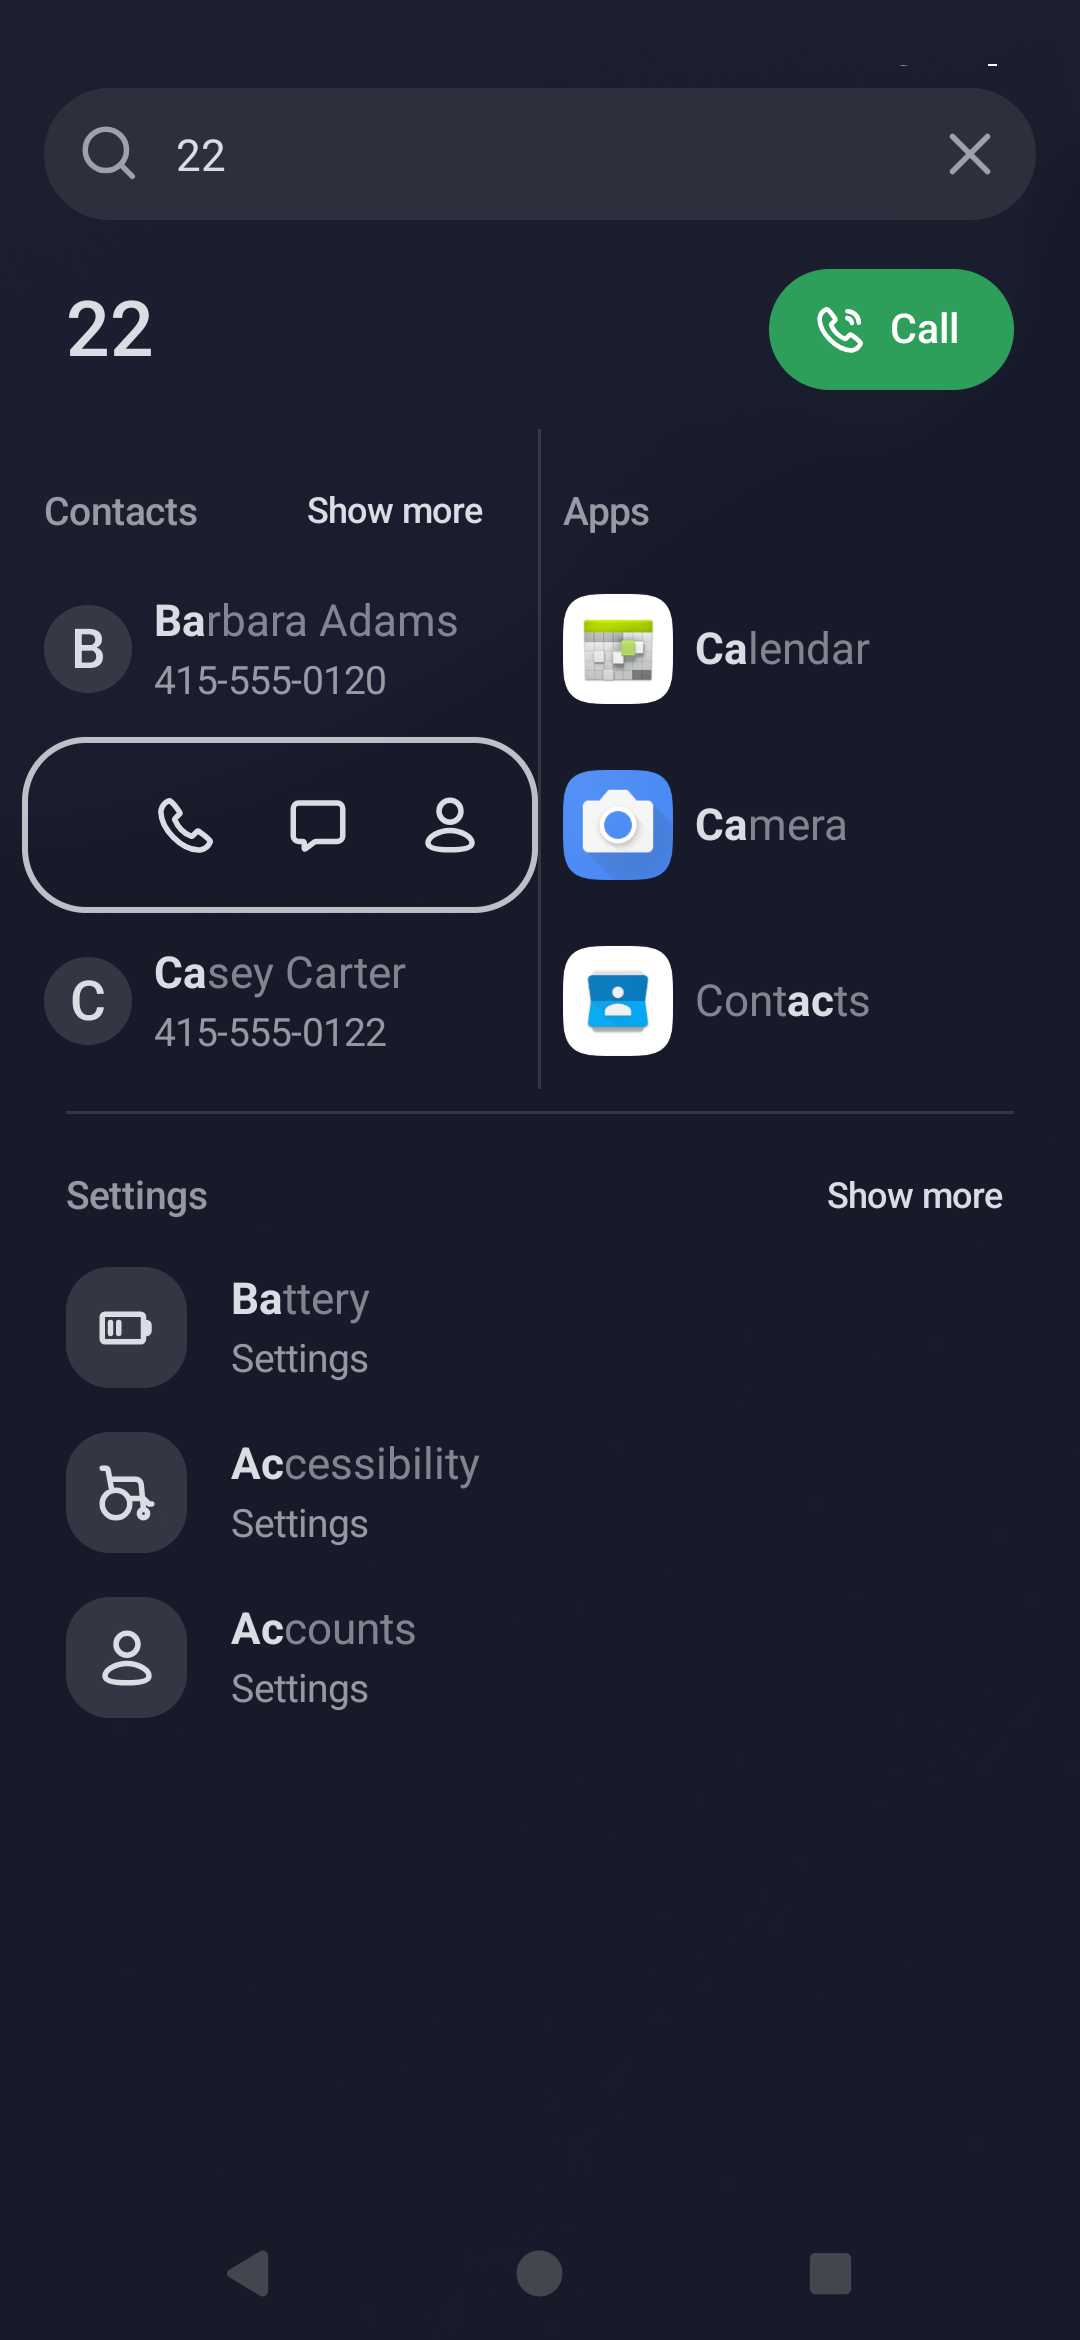
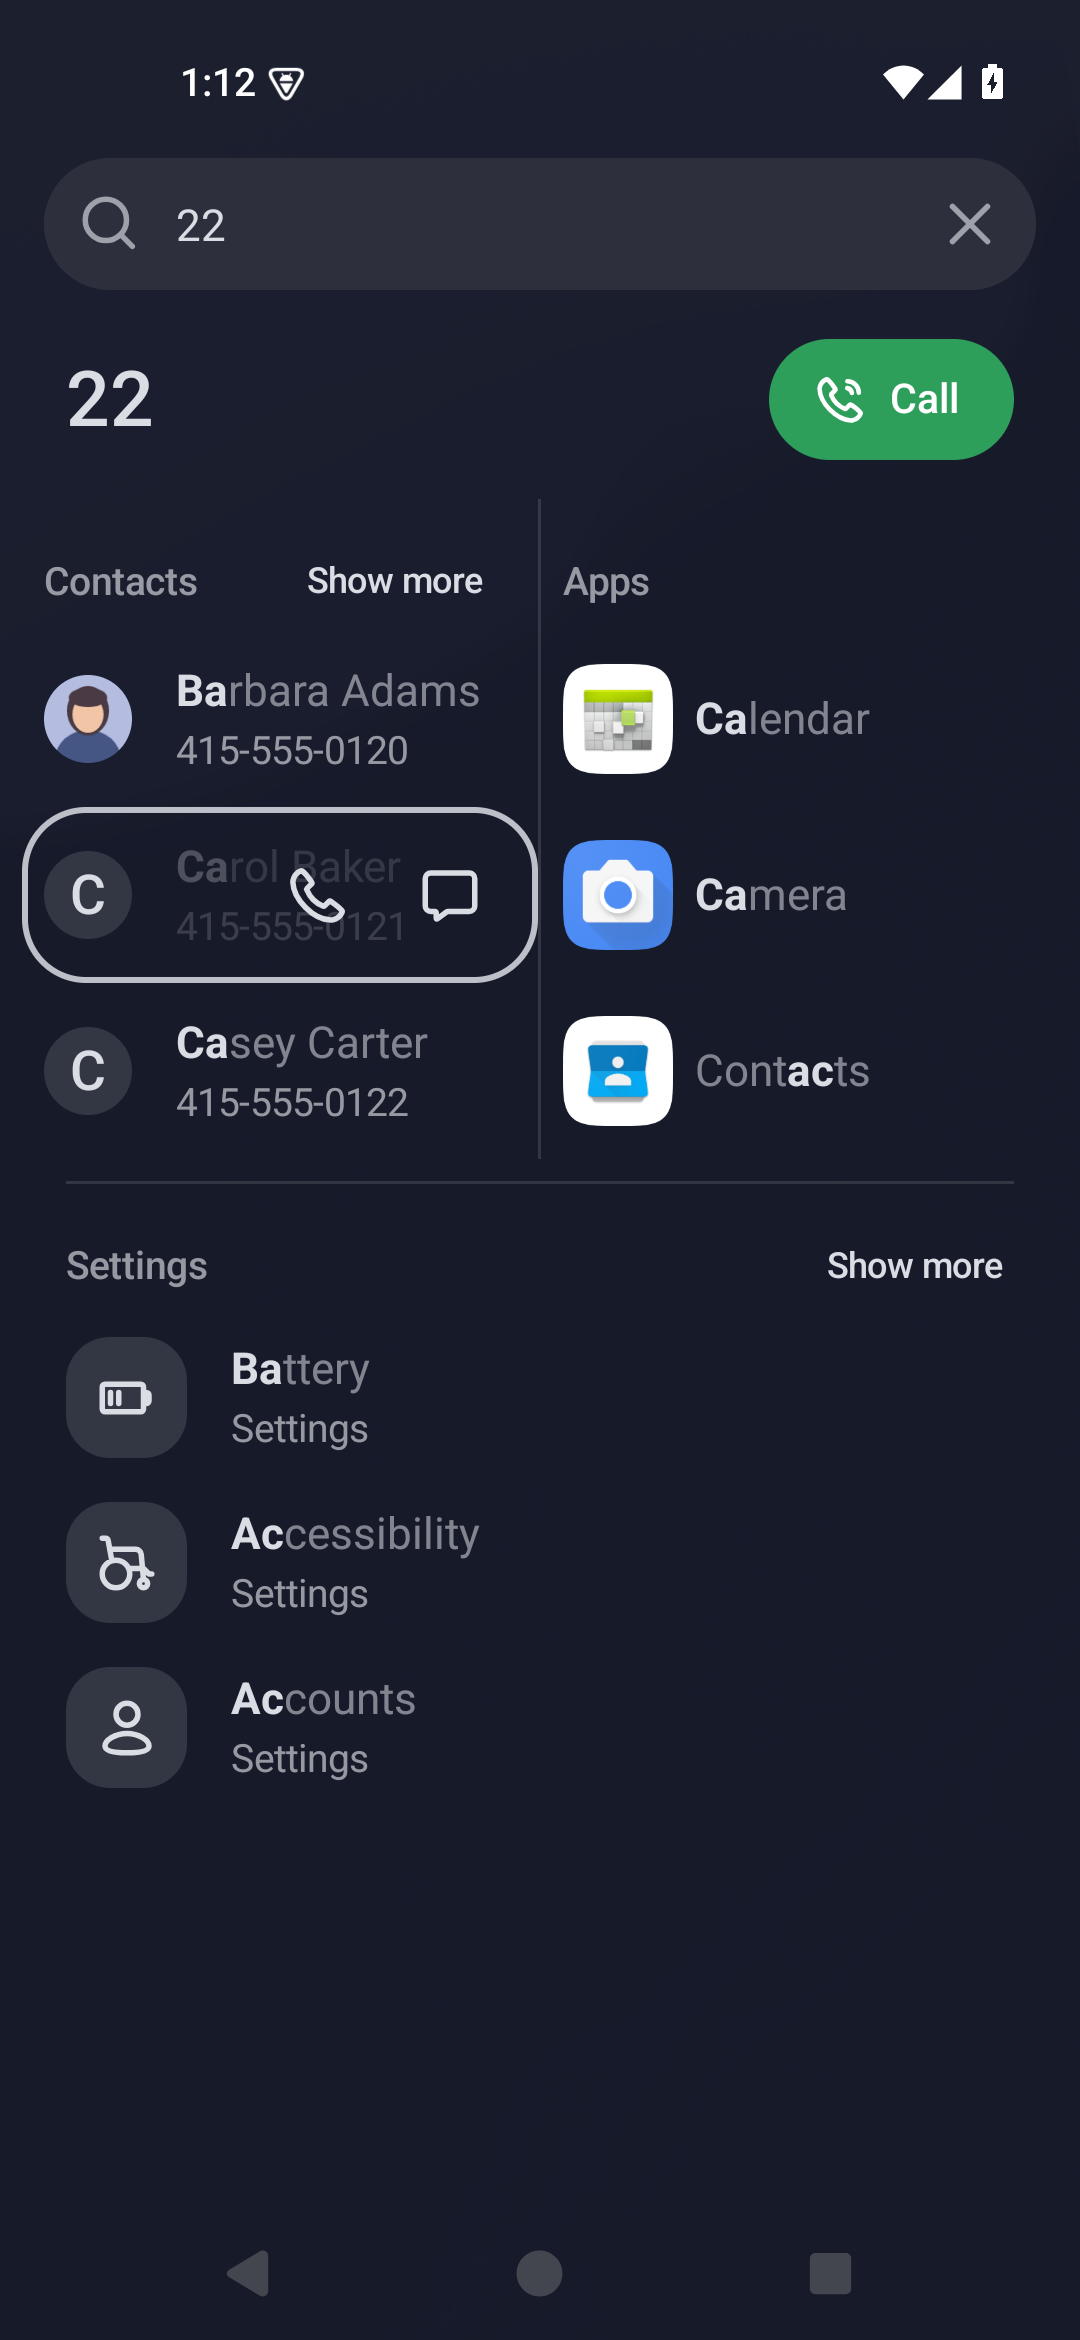
Verify photo actions with the combined search changes

diff --git a/app/src/androidTest/java/app/featherlauncher/SearchColumnsTests.kt b/app/src/androidTest/java/app/featherlauncher/SearchColumnsTests.kt
@@ -32,17 +32,22 @@ class SearchColumnsTests : Instrumentation() {
             prefs.onboarded = true
             prefs.searchColumns = true
             check(Prefs(targetContext).searchColumns)
+            val photo = contactPhoto()
             val activity = startActivitySync(Intent(targetContext, HomeActivity::class.java).addFlags(Intent.FLAG_ACTIVITY_NEW_TASK)) as HomeActivity
             home = activity
             Thread.sleep(1200)
             runOnMainSync {
                 val contactsField = HomeActivity::class.java.getDeclaredField("contacts").apply { isAccessible = true }
                 val contacts = contactsField.get(activity) as Contacts
-                Contacts::class.java.getDeclaredField("all").apply { isAccessible = true }.set(contacts,
+                val all = Contacts::class.java.getDeclaredField("all").apply { isAccessible = true }
+                val samples =
                     (listOf("Barbara Adams", "Carol Baker", "Casey Carter", "Cameron Bell", "Bailey Clark") +
                         (6..12).map { "Bailey Clark $it" }).mapIndexed { i, name ->
-                        Contacts.Contact(i.toLong(), name, "415-555-012$i", listOf("415-555-012$i"), null, true, if (i == 0) "barbara@example.com" else null)
-                    })
+                        Contacts.Contact(i.toLong(), name, "415-555-012$i", listOf("415-555-012$i"), if (i == 0) photo else null, true, if (i == 0) "barbara@example.com" else null)
+                    }
+                all.set(contacts, samples)
+                // Keep the fixture stable if the real provider finishes an asynchronous reload.
+                contacts.onLoaded = { all.set(contacts, samples) }
                 activity.pressDigit(2)
                 activity.findViewById<EditText>(R.id.search).setText("22")
             }
@@ -83,7 +88,30 @@ class SearchColumnsTests : Instrumentation() {
             }
             runOnMainSync { check(actions(row).visibility == View.VISIBLE) }
             screenshot("columns-touch-actions")
-            runOnMainSync { checkRightAligned(row) }
+            runOnMainSync { checkRightAligned(row); checkVisibleDetails(row) }
+            var opened: android.net.Uri? = null
+            val monitor = object : ActivityMonitor() {
+                override fun onStartActivity(intent: Intent): ActivityResult? {
+                    if (intent.action != Intent.ACTION_VIEW || intent.data?.authority != android.provider.ContactsContract.AUTHORITY) return null
+                    opened = intent.data
+                    return ActivityResult(Activity.RESULT_OK, null)
+                }
+            }
+            addMonitor(monitor)
+            try {
+                val picture = picture(row)
+                runOnMainSync { picture.getLocationOnScreen(point) }
+                val tapTime = android.os.SystemClock.uptimeMillis()
+                for (action in listOf(android.view.MotionEvent.ACTION_DOWN, android.view.MotionEvent.ACTION_UP)) {
+                    val event = android.view.MotionEvent.obtain(tapTime, android.os.SystemClock.uptimeMillis(), action,
+                        point[0] + picture.width / 2f, point[1] + picture.height / 2f, 0)
+                    event.source = android.view.InputDevice.SOURCE_TOUCHSCREEN
+                    check(uiAutomation.injectInputEvent(event, true))
+                    event.recycle()
+                }
+                settle()
+                check(opened?.lastPathSegment == "0") { "Photo tap must open the selected contact: $opened" }
+            } finally { removeMonitor(monitor) }
             runOnMainSync { activity.findViewById<View>(R.id.search_bar).requestFocusFromTouch() }
             var moves = 0
             while (activity.currentFocus?.tag !is Contacts.Contact && moves++ < 5) {
@@ -97,21 +125,32 @@ class SearchColumnsTests : Instrumentation() {
             }
             screenshot("columns-dpad-actions")
             sendKeyDownUpSync(KeyEvent.KEYCODE_DPAD_RIGHT)
+            runOnMainSync { check(activity.currentFocus === picture(row)) }
+            screenshot("columns-photo-focus")
+            sendKeyDownUpSync(KeyEvent.KEYCODE_DPAD_RIGHT)
             runOnMainSync { check(activity.currentFocus?.contentDescription?.startsWith("Call ") == true) }
             sendKeyDownUpSync(KeyEvent.KEYCODE_DPAD_RIGHT)
             runOnMainSync { check(activity.currentFocus?.contentDescription?.startsWith("Text ") == true) }
             sendKeyDownUpSync(KeyEvent.KEYCODE_DPAD_RIGHT)
             runOnMainSync { check(activity.currentFocus?.contentDescription?.startsWith("Email ") == true) }
             sendKeyDownUpSync(KeyEvent.KEYCODE_DPAD_RIGHT)
-            runOnMainSync { check(activity.currentFocus?.contentDescription?.startsWith("Open ") == true) }
-            sendKeyDownUpSync(KeyEvent.KEYCODE_DPAD_RIGHT)
             runOnMainSync { check(activity.currentFocus?.tag is AppEntry); check(actions(row).visibility == View.INVISIBLE) }
+            runOnMainSync { check(details(row).alpha == 1f) }
             sendKeyDownUpSync(KeyEvent.KEYCODE_DPAD_LEFT)
             runOnMainSync { check(activity.currentFocus?.tag is Contacts.Contact); check(actions(row).visibility == View.VISIBLE) }
             sendKeyDownUpSync(KeyEvent.KEYCODE_DPAD_DOWN)
             runOnMainSync { check((activity.currentFocus?.tag as? Contacts.Contact)?.name == "Carol Baker"); check(actions(row).visibility == View.INVISIBLE) }
             screenshot("columns-right-actions")
             runOnMainSync { checkRightAligned(activity.currentFocus as ViewGroup) }
+            runOnMainSync { picture(contactRows(list).first()).requestFocusFromTouch() }
+            settle()
+            opened = null
+            addMonitor(monitor)
+            try {
+                sendKeyDownUpSync(KeyEvent.KEYCODE_DPAD_CENTER)
+                waitForIdleSync()
+                check(opened?.lastPathSegment == "0") { "D-pad OK on the picture must open the contact" }
+            } finally { removeMonitor(monitor) }
             runOnMainSync {
                 val more = descendants(list).filterIsInstance<android.widget.TextView>().first { it.text == "Show more" }
                 more.performClick()
@@ -173,7 +212,7 @@ class SearchColumnsTests : Instrumentation() {
                 check(!stackedAdapter.searchColumns && stackedAdapter.rows.none { it is DrawerAdapter.Row.Columns })
                 stacked.finish()
             }
-            result.putString("stream", "PASS: columns, full-width Settings/Files, tap/focus actions, D-pad traversal, Show more, empty results, favorites, and settings persistence\n")
+            result.putString("stream", "PASS: visible photo, faded text under actions, no details button, photo tap/OK contact intents, column geometry, action callbacks, D-pad traversal/scrolling, files, and settings\n")
             finish(Activity.RESULT_OK, result)
         } catch (error: Throwable) {
             home?.let { runOnMainSync { it.finish() } }
@@ -195,7 +234,11 @@ class SearchColumnsTests : Instrumentation() {
         row.performClick()
         check(actions(row).visibility == View.VISIBLE && calls.isEmpty())
         descendants(actions(row)).filter { it.isClickable }.forEach { it.performClick() }
-        check(calls == listOf(ContactAction.CALL, ContactAction.TEXT, ContactAction.EMAIL, ContactAction.OPEN))
+        check(calls == listOf(ContactAction.CALL, ContactAction.TEXT, ContactAction.EMAIL))
+        check(descendants(actions(row)).none { it.contentDescription?.startsWith("Open ") == true })
+        checkVisibleDetails(row)
+        picture(row).performClick()
+        check(calls.last() == ContactAction.OPEN)
         adapter.searchColumns = false
         val stacked = adapter.getView(0, null, android.widget.FrameLayout(targetContext))
         stacked.performClick()
@@ -206,6 +249,28 @@ class SearchColumnsTests : Instrumentation() {
         if (view is ViewGroup) (0 until view.childCount).flatMap { descendants(view.getChildAt(it)) } else emptyList()
     private fun contactRows(list: ListView) = descendants(list).filterIsInstance<ViewGroup>().filter { it.tag is Contacts.Contact && it.isFocusable }
     private fun actions(row: ViewGroup) = row.getChildAt(1)
+    private fun picture(row: ViewGroup) = (row.getChildAt(0) as ViewGroup).getChildAt(0) as ViewGroup
+    private fun details(row: ViewGroup) = (row.getChildAt(0) as ViewGroup).getChildAt(1)
+    private fun checkVisibleDetails(row: ViewGroup) {
+        check(row.getChildAt(0).visibility == View.VISIBLE && row.getChildAt(0).alpha == 1f)
+        check(picture(row).visibility == View.VISIBLE && picture(row).alpha == 1f)
+        check(details(row).visibility == View.VISIBLE && details(row).alpha in 0.1f..0.5f)
+        check(actions(row).left >= picture(row).right + row.getChildAt(0).left) { "Actions must not cover the picture" }
+    }
+    private fun contactPhoto(): android.net.Uri {
+        val bitmap = android.graphics.Bitmap.createBitmap(96, 96, android.graphics.Bitmap.Config.ARGB_8888)
+        val canvas = android.graphics.Canvas(bitmap)
+        val paint = android.graphics.Paint(android.graphics.Paint.ANTI_ALIAS_FLAG)
+        canvas.drawColor(0xFFB4BDE0.toInt())
+        paint.color = 0xFF455685.toInt(); canvas.drawOval(12f, 60f, 84f, 125f, paint)
+        paint.color = 0xFF493A43.toInt(); canvas.drawOval(25f, 12f, 71f, 66f, paint)
+        paint.color = 0xFFF2C5A7.toInt(); canvas.drawOval(31f, 23f, 65f, 63f, paint)
+        paint.color = 0xFF493A43.toInt(); canvas.drawOval(27f, 14f, 69f, 35f, paint)
+        val file = File(targetContext.cacheDir, "contact-photo.png")
+        file.outputStream().use { bitmap.compress(android.graphics.Bitmap.CompressFormat.PNG, 100, it) }
+        bitmap.recycle()
+        return android.net.Uri.fromFile(file)
+    }
     private fun checkRightAligned(row: ViewGroup) {
         val toolbar = actions(row) as android.widget.HorizontalScrollView
         val actions = toolbar.getChildAt(0) as ViewGroup

diff --git a/app/src/main/java/app/featherlauncher/DrawerAdapter.kt b/app/src/main/java/app/featherlauncher/DrawerAdapter.kt
@@ -345,6 +345,13 @@ class DrawerAdapter(
                 background = Ui.rounded(context, 0x1FFFFFFF, Ui.RADIUS_M)
             }
         }
+        val picture = if (searchColumns) FrameLayout(context).apply {
+            isFocusable = true
+            contentDescription = "Open ${contact.name}"
+            foreground = Ui.pressable(context, Ui.RADIUS_M, focusColor = p.onWall)
+            addView(avatar, FrameLayout.LayoutParams(size, size, Gravity.START or Gravity.CENTER_VERTICAL))
+            setOnClickListener { onContact(contact, ContactAction.OPEN) }
+        } else avatar
         val content = LinearLayout(context).apply {
             orientation = LinearLayout.HORIZONTAL
             gravity = Gravity.CENTER_VERTICAL
@@ -355,7 +362,7 @@ class DrawerAdapter(
             isFocusable = true
             // The Call key calls whoever is highlighted.
             tag = contact
-            addView(avatar, LinearLayout.LayoutParams(size, size))
+            addView(picture, LinearLayout.LayoutParams(if (searchColumns) dp(48) else size, if (searchColumns) dp(48) else size))
             addView(LinearLayout(context).apply {
                 orientation = LinearLayout.VERTICAL
                 addView(TextView(context).apply {
@@ -385,18 +392,19 @@ class DrawerAdapter(
             }
         }
         if (!searchColumns) return content
-        // One flat row; actions temporarily replace its contents without changing its height.
+        // Keep the picture available while actions sit over the faded name and number.
         content.isFocusable = false
+        content.tag = null
         content.foreground = null
         content.setPadding(dp(Ui.SPACE_S), 0, dp(Ui.SPACE_S), 0)
-        (content.getChildAt(1).layoutParams as LinearLayout.LayoutParams).marginStart = dp(Ui.SPACE_S)
+        val details = content.getChildAt(1)
+        (details.layoutParams as LinearLayout.LayoutParams).marginStart = 0
         val actions = LinearLayout(context).apply {
             orientation = LinearLayout.HORIZONTAL
             gravity = Gravity.END or Gravity.CENTER_VERTICAL
             addView(contactButton(R.drawable.ic_cat_phone, "Call ${contact.name}", p) { onContact(contact, ContactAction.CALL) })
             addView(contactButton(R.drawable.ic_message, "Text ${contact.name}", p) { onContact(contact, ContactAction.TEXT) })
             if (contact.email != null) addView(contactButton(R.drawable.ic_cat_mail, "Email ${contact.name}", p) { onContact(contact, ContactAction.EMAIL) })
-            addView(contactButton(R.drawable.ic_set_user, "Open ${contact.name}", p) { onContact(contact, ContactAction.OPEN) })
         }
         val toolbar = HorizontalScrollView(context).apply {
             isHorizontalScrollBarEnabled = false
@@ -407,11 +415,11 @@ class DrawerAdapter(
             visibility = View.INVISIBLE
         }
         return object : FrameLayout(context) {
-            private fun hide() { toolbar.visibility = View.INVISIBLE; content.visibility = View.VISIBLE }
+            private fun hide() { toolbar.visibility = View.INVISIBLE; details.alpha = 1f }
             private fun reveal() {
                 if (toolbar.visibility == View.VISIBLE) return
                 hideContactActions?.invoke()
-                content.visibility = View.INVISIBLE
+                details.alpha = 0.28f
                 toolbar.visibility = View.VISIBLE
                 toolbar.post { toolbar.scrollTo((actions.width - toolbar.width + toolbar.paddingRight).coerceAtLeast(0), 0) }
                 hideContactActions = { hide() }
@@ -431,7 +439,7 @@ class DrawerAdapter(
             private val focusListener = android.view.ViewTreeObserver.OnGlobalFocusChangeListener { _, focused ->
                 var child = focused
                 while (child != null && child !== this) child = child.parent as? View
-                if (child == null) hide()
+                if (child == null) hide() else reveal()
             }
             init {
                 isFocusable = true
@@ -440,7 +448,9 @@ class DrawerAdapter(
                 minimumHeight = dp(64)
                 foreground = Ui.pressable(context, Ui.RADIUS_L, focusColor = p.onWall)
                 addView(content, FrameLayout.LayoutParams(ViewGroup.LayoutParams.MATCH_PARENT, ViewGroup.LayoutParams.MATCH_PARENT))
-                addView(toolbar, FrameLayout.LayoutParams(ViewGroup.LayoutParams.MATCH_PARENT, dp(48), Gravity.CENTER_VERTICAL))
+                addView(toolbar, FrameLayout.LayoutParams(ViewGroup.LayoutParams.MATCH_PARENT, dp(48), Gravity.CENTER_VERTICAL).apply {
+                    marginStart = dp(Ui.SPACE_S + 48)
+                })
                 setOnClickListener { reveal() }
             }
         }

diff --git a/app/src/main/java/app/featherlauncher/HomeActivity.kt b/app/src/main/java/app/featherlauncher/HomeActivity.kt
@@ -1822,7 +1822,7 @@ class HomeActivity : Activity(), HomeScreen.Host {
         if (row != null) {
             val stops = if (contactRow != null && adapter.searchColumns) {
                 listOf<View>(row) + ArrayList<View>().also { row.addFocusables(it, View.FOCUS_RIGHT) }
-                    .filter { it !== row && it is ImageView && it.isShown }
+                    .filter { it !== row && it.isClickable && it.isShown }
             } else listOf<View>(row) + (0 until row.childCount).map(row::getChildAt).filter { it.isFocusable && it.visibility == View.VISIBLE }
             if (stops.size > 1) {
                 val next = stops.getOrNull(stops.indexOf(from) + if (direction == View.FOCUS_RIGHT) 1 else -1)

diff --git a/README.md b/README.md
@@ -27,7 +27,7 @@ Plain Kotlin and platform Views, no AndroidX and no third-party libraries, so it
 
 **Smart Search**
 - Apps, contacts (any of their numbers), app shortcuts, phone settings and files, with T9 and letter matching.
-- Settings → Search can place contacts and apps side by side. Tap or highlight a contact for its actions; settings and files stay below.
+- Settings → Search can place contacts and apps side by side. Tap or highlight a contact for its actions, or tap its picture to open its details; settings and files stay below.
 - Type a number on the home screen to dial it; the Call key places the call.
 
 **Made for keypads**
